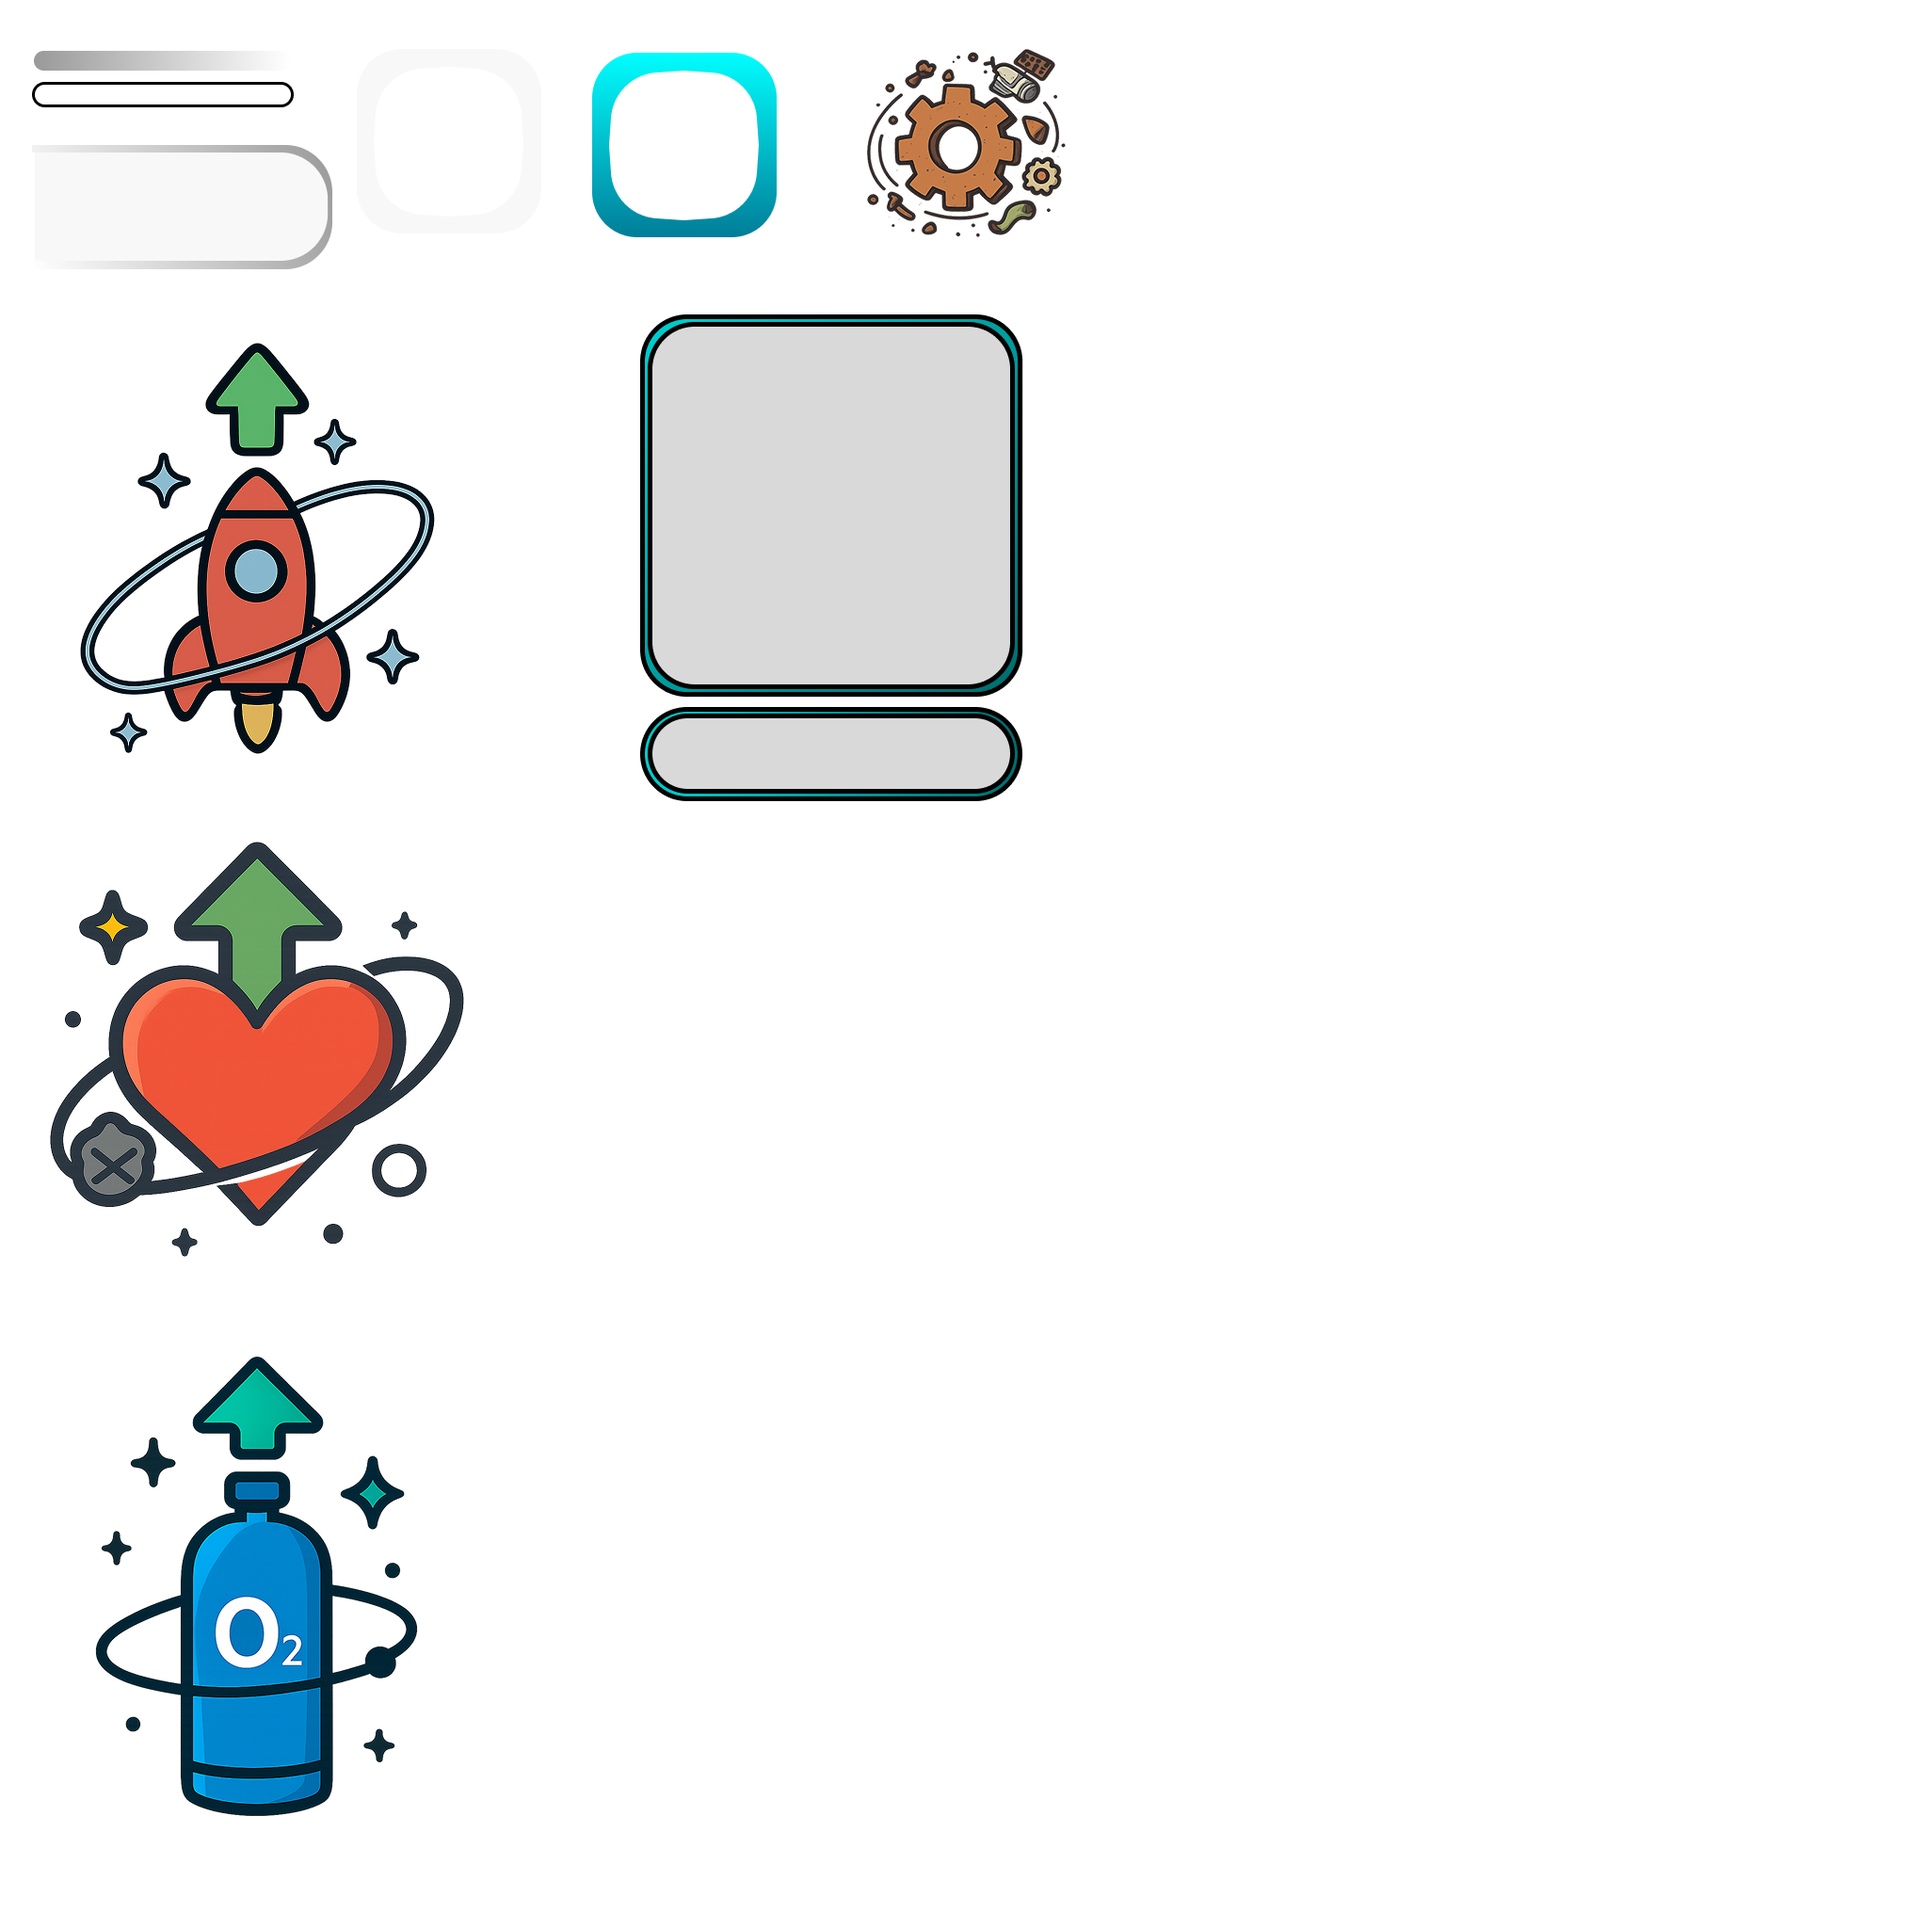
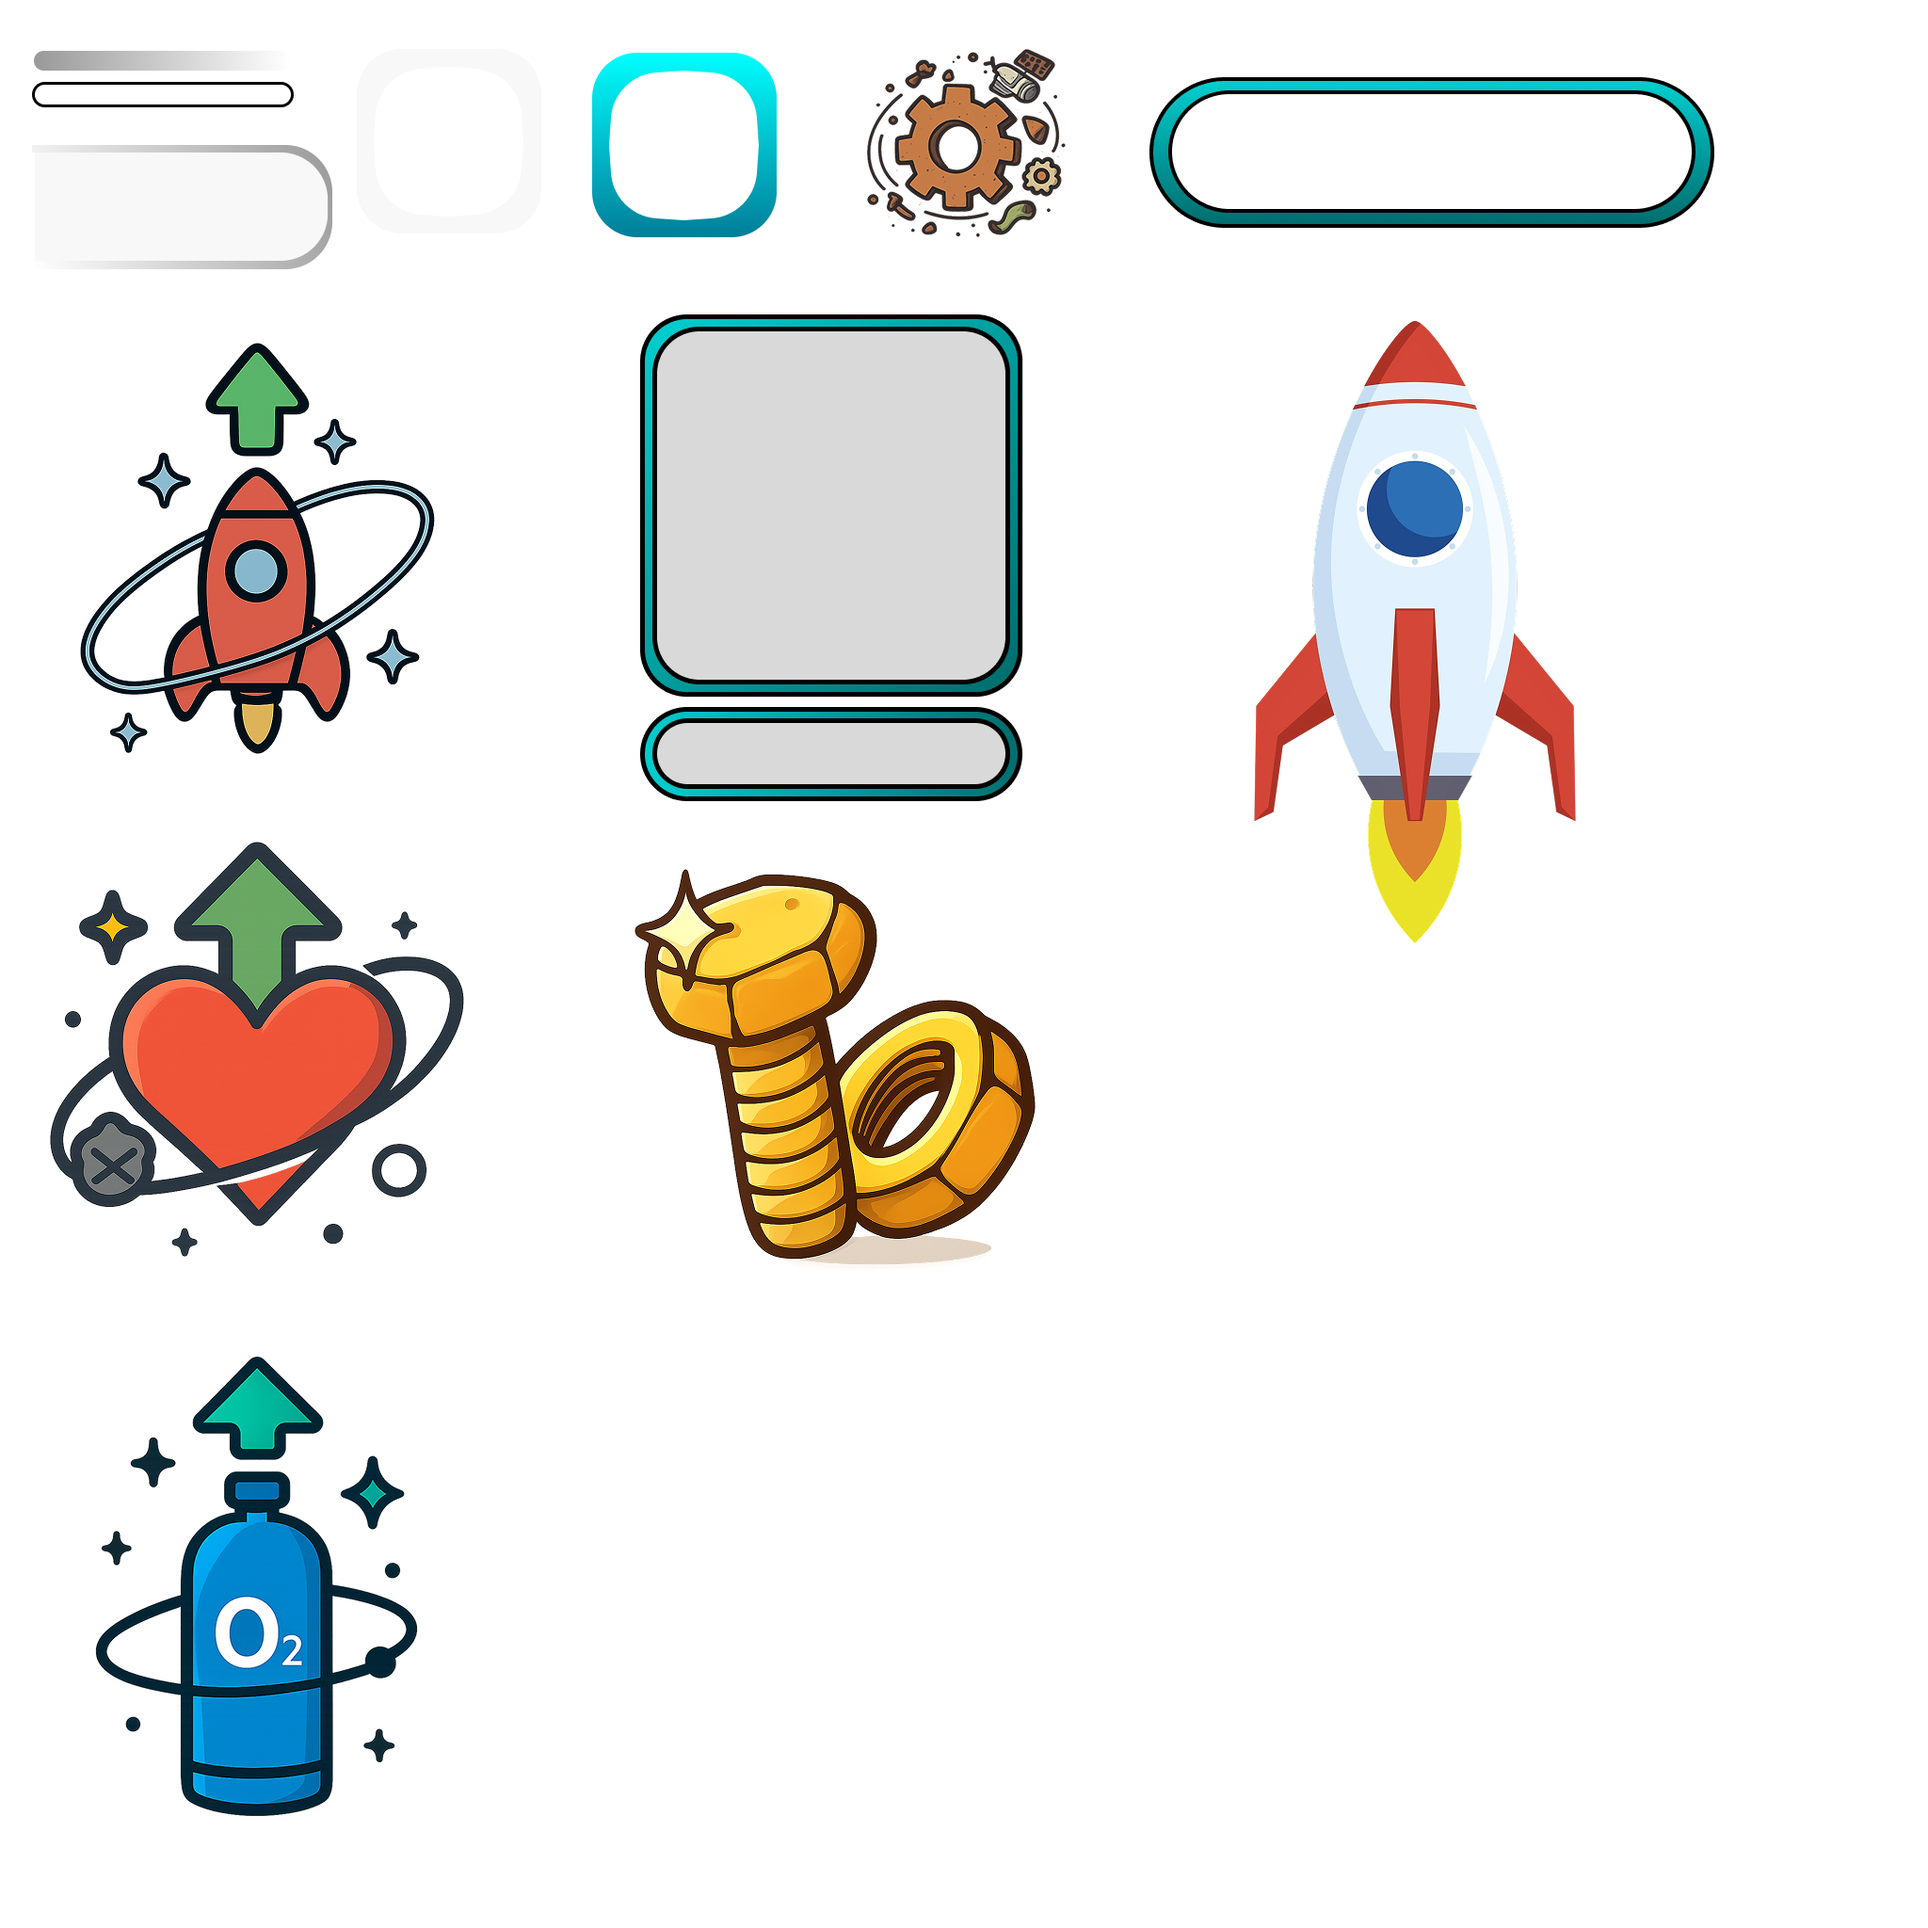
Minior ui update

diff --git a/Junk Orbit/Assets/Scripts/Player Scripts/PlayerDamageScript.cs b/Junk Orbit/Assets/Scripts/Player Scripts/PlayerDamageScript.cs
@@ -34,6 +34,7 @@ public class PlayerDamageScript : MonoBehaviour
 
     [Header("Cooldown")]
     [SerializeField] private float hitCooldown = 0.5f;    // delay before next hit
+    public bool isLanding = false;
 
     private Coroutine flashRoutine;
     private Rigidbody rb;
@@ -192,7 +193,7 @@ public class PlayerDamageScript : MonoBehaviour
 
         while (true)
         {
-            if (CurrentOxygen > 0)
+            if (CurrentOxygen > 0 && !isLanding)
             {
                 timeWithoutOxygen = 0f;
 
@@ -203,27 +204,30 @@ public class PlayerDamageScript : MonoBehaviour
             {
                 timeWithoutOxygen += 1f;
                 float damageAmount;
-                
-                if (timeWithoutOxygen <= 5f)
+                if (!isLanding)
                 {
-                    damageAmount = 0.1f;
-                }
-                else if (timeWithoutOxygen <= 10f)
-                {
-                    damageAmount = 0.5f;
-                }
-                else
-                {
-                    damageAmount = 1f;
+                    if (timeWithoutOxygen <= 5f)
+                    {
+                        damageAmount = 0.1f;
+                    }
+                    else if (timeWithoutOxygen <= 10f)
+                    {
+                        damageAmount = 0.5f;
+                    }
+                    else
+                    {
+                        damageAmount = 1f;
+                    }
+                    CurrentHealth -= damageAmount;
+                    uIManager.UpdateHealthBar(CurrentHealth, TotalHealth);
                 }
 
-                CurrentHealth -= damageAmount;
-                uIManager.UpdateHealthBar(CurrentHealth, TotalHealth);
             }
 
             if (CurrentHealth <= 0)
             {
                 Debug.Log("GameOver");
+                uIManager.ShowDeadPage();
                 break;
             }
 

diff --git a/Junk Orbit/Assets/Scripts/Boundary Scripts/Landing Script.cs b/Junk Orbit/Assets/Scripts/Boundary Scripts/Landing Script.cs
@@ -3,6 +3,10 @@ using System.Collections;
 
 public class LandingScript : MonoBehaviour
 {
+    [SerializeField] private PlayerDamageScript damageScript;
+    [SerializeField] private PlayerJunkCollector junkCollector;
+    [SerializeField] private UIManager uIManager;
+
     [SerializeField] private float TimeToLand = 5f;
 
     private bool hasLeftOnce = false;
@@ -14,6 +18,7 @@ public class LandingScript : MonoBehaviour
         if (other.CompareTag("Player") && hasLeftOnce && !isCounting)
         {
             landingCoroutine = StartCoroutine(StartLandingCountdown());
+            damageScript.isLanding = true;
         }
     }
 
@@ -23,29 +28,28 @@ public class LandingScript : MonoBehaviour
         {
             if (!hasLeftOnce)
             {
-                hasLeftOnce = true; // Mark that player has left once
-                Debug.Log("Player left zone once, next entry will start landing check");
+                hasLeftOnce = true;
             }
 
-            // If player leaves again during countdown, cancel landing
             if (landingCoroutine != null)
             {
                 StopCoroutine(landingCoroutine);
                 landingCoroutine = null;
                 isCounting = false;
-                Debug.Log("Player left before landing completed, countdown cancelled");
             }
+            damageScript.isLanding = false ;
         }
     }
 
     private IEnumerator StartLandingCountdown()
     {
         isCounting = true;
-        Debug.Log("Player entered again, starting landing countdown...");
 
         yield return new WaitForSeconds(TimeToLand);
 
         Debug.Log("Landing Completed");
+        Debug.Log("Junk Collected: "+ junkCollector.JunkList.Count);
+        uIManager.ShowLandingPage();
         isCounting = false;
         landingCoroutine = null;
     }

diff --git a/Junk Orbit/Assets/Scripts/UI Scripts/UI Manager.cs b/Junk Orbit/Assets/Scripts/UI Scripts/UI Manager.cs
@@ -22,6 +22,7 @@ public class UIManager : MonoBehaviour
 
     [Header("Page UI")]
     [SerializeField] private GameObject Page;
+    [SerializeField] private TextMeshProUGUI PageT;
     [SerializeField] private GameObject Joystick;
     [SerializeField] private Button Home;
 
@@ -99,6 +100,14 @@ public class UIManager : MonoBehaviour
 
     public void ShowDeadPage()
     {
+        Page.SetActive(true);
+        Joystick.SetActive(false);
+        playerMovement.StopMovement();
+    }
+
+    public void ShowLandingPage()
+    {
+        PageT.text = "Landing Completed";
         Page.SetActive(true);
         Joystick.SetActive(false);
         playerMovement.StopMovement();
